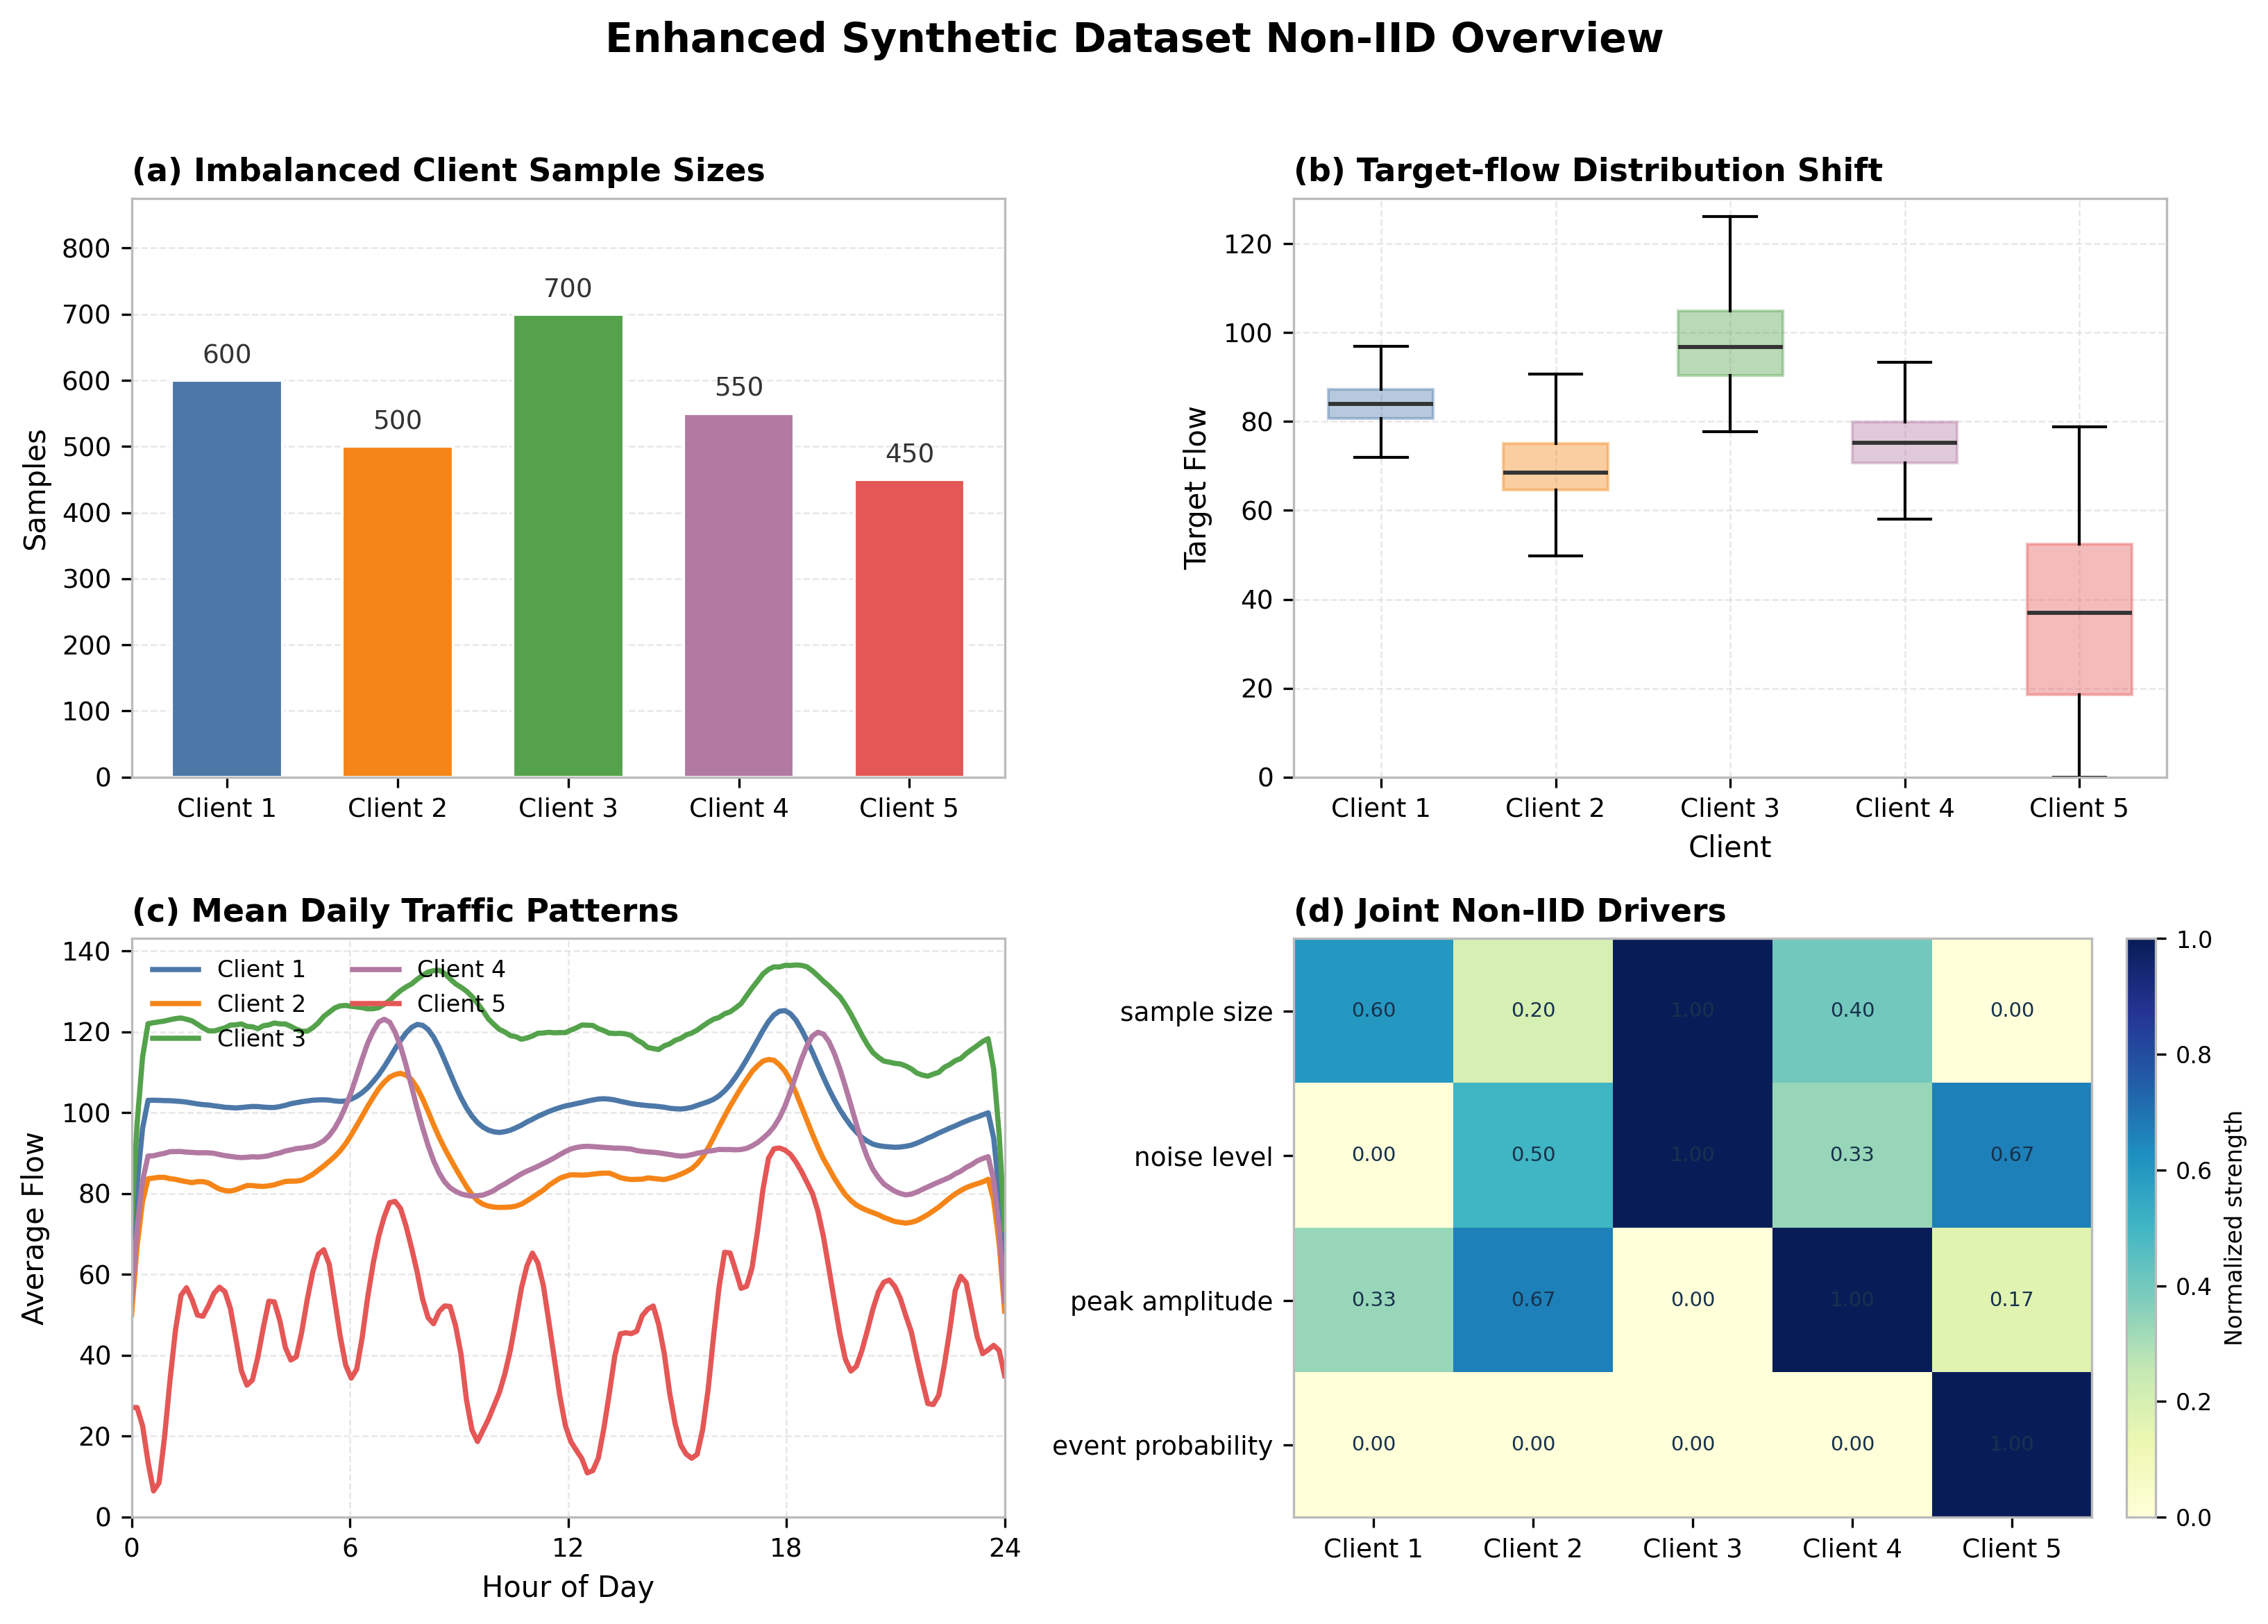
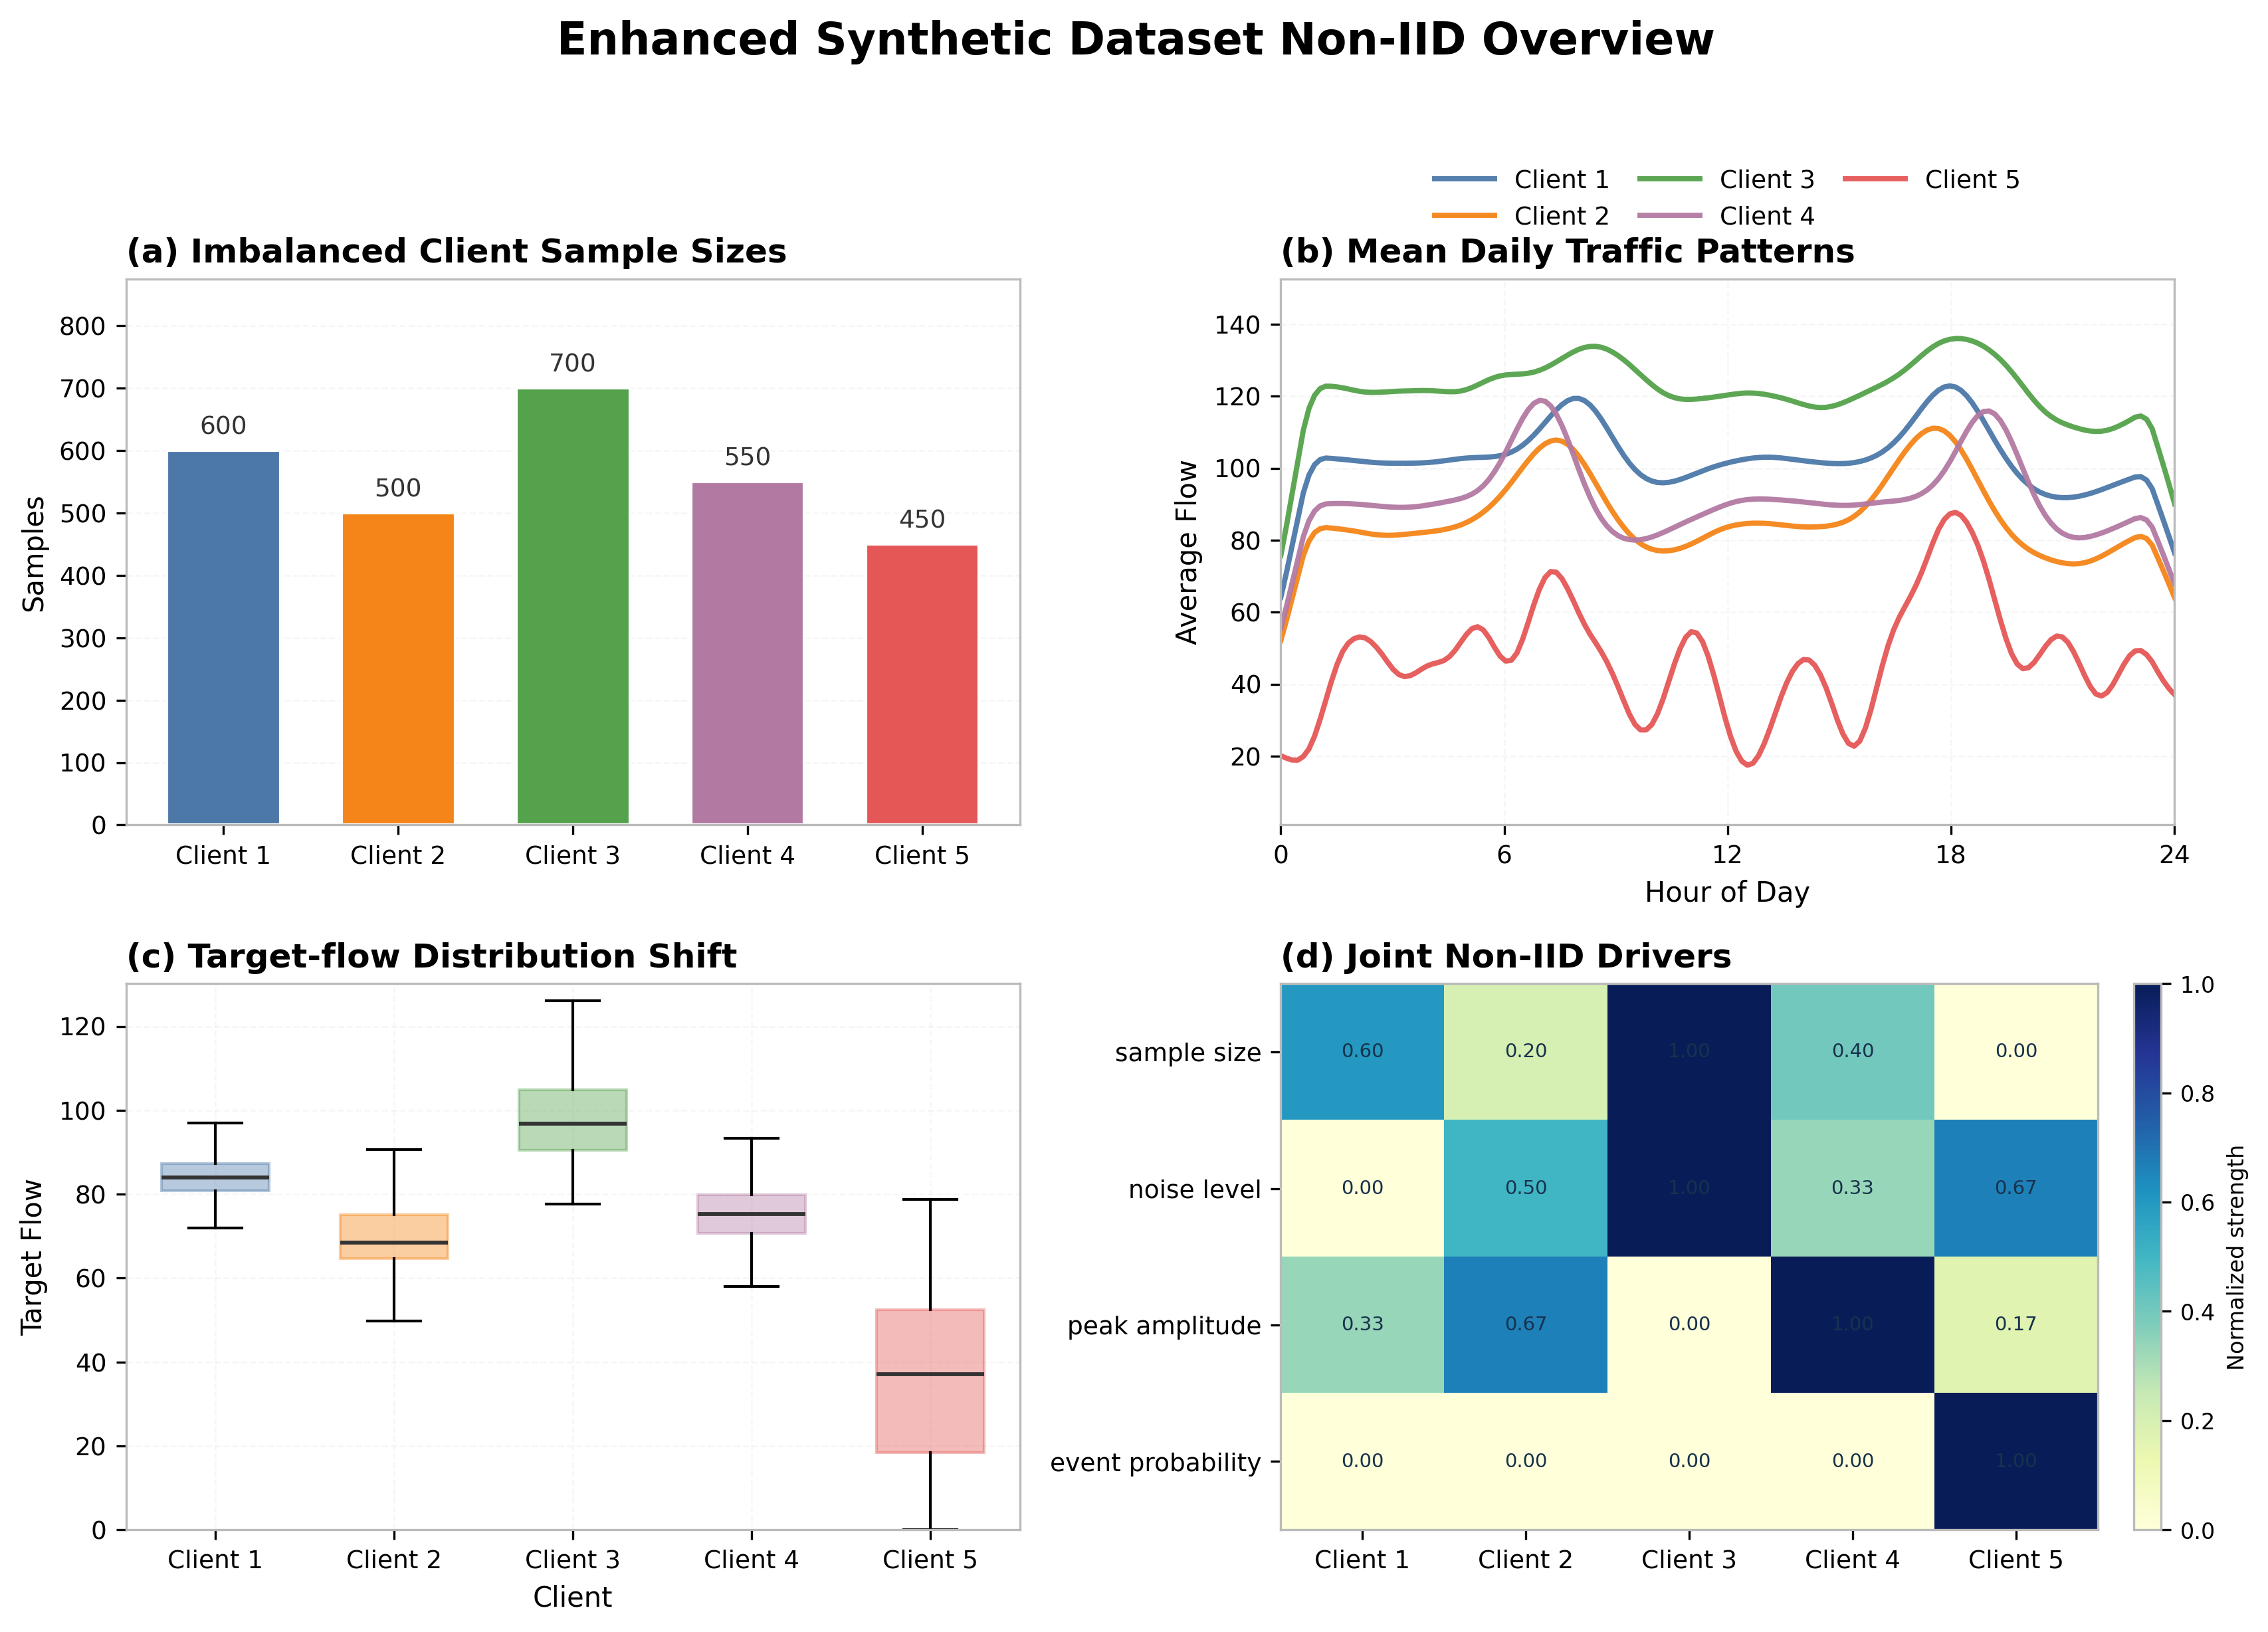
Align dataset overview panels and improve trajectory legends

diff --git a/simulation_experiments/simulation_dataset_overview_visualization.py b/simulation_experiments/simulation_dataset_overview_visualization.py
@@ -37,11 +37,12 @@ def _configure_style() -> None:
     plt.rcParams.update(
         {
             "font.size": 10,
-            "axes.titlesize": 11,
+            "axes.titlesize": 12,
             "axes.labelsize": 10,
-            "figure.titlesize": 14,
+            "figure.titlesize": 16,
             "xtick.labelsize": 9,
             "ytick.labelsize": 9,
+            "legend.fontsize": 9,
             "axes.edgecolor": "#BBBBBB",
             "axes.linewidth": 0.8,
             "grid.color": GRID_COLOR,
@@ -78,10 +79,34 @@ def _add_bar_labels(ax, bars, values: list[float]) -> None:
         )
 
 
+def _smooth_curve(values: np.ndarray, window: int = 3) -> np.ndarray:
+    if window <= 1:
+        return values.copy()
+    pad = window // 2
+    padded = np.pad(values, (pad, pad), mode="edge")
+    kernel = np.ones(window, dtype=float) / float(window)
+    return np.convolve(padded, kernel, mode="valid")
+
+
+def _configure_line_panel(ax, legend_items: int) -> None:
+    ax.grid(alpha=0.25)
+    ax.set_axisbelow(True)
+    ncol = 3 if legend_items <= 6 else 4
+    ax.legend(
+        loc="lower center",
+        bbox_to_anchor=(0.5, 1.05),
+        ncol=ncol,
+        frameon=False,
+        fontsize=9,
+        handlelength=2.4,
+        columnspacing=1.2,
+    )
+
+
 def _prepare_base_data() -> dict[str, object]:
     all_x, all_y, meta = cfb_core.generate_base_traffic_data(seed=cfb_core.BASE_SEED)
     _, raw_adj, graph_meta = gfb_core.generate_adjacency_matrix(seed=gfb_core.BASE_SEED)
-    mean_series = [client_x.mean(axis=(0, 1)) for client_x in all_x]
+    mean_series = [_smooth_curve(client_x.mean(axis=(0, 1)), window=3) for client_x in all_x]
     return {
         "meta": meta,
         "mean_series": mean_series,
@@ -108,11 +133,12 @@ def _prepare_enhanced_data() -> dict[str, object]:
         mean_series = data.mean(axis=1)
         hours = np.arange(len(mean_series), dtype=float) * 24.0 / len(mean_series)
         resampled = np.interp(common_hours, hours, mean_series)
-        kernel = np.array([1.0, 2.0, 3.0, 3.0, 3.0, 2.0, 1.0], dtype=float)
+        kernel = np.array([1.0, 2.0, 3.0, 4.0, 5.0, 5.0, 4.0, 3.0, 2.0, 1.0], dtype=float)
         kernel /= kernel.sum()
         resampled = np.convolve(resampled, kernel, mode="same")
+        resampled = _smooth_curve(resampled, window=7)
 
-        target_distributions.append(targets)
+        target_distributions.append(np.clip(targets, 0.0, None))
         resampled_series.append(resampled)
         sample_sizes.append(int(cfg["n_samples"]))
         noises.append(float(cfg["noise"]))
@@ -160,7 +186,7 @@ def generate_base_dataset_overview(output_dir: Path) -> None:
     base_data = _prepare_base_data()
     meta = base_data["meta"]
 
-    fig, axes = plt.subplots(2, 2, figsize=(11, 8))
+    fig, axes = plt.subplots(2, 2, figsize=(11.5, 8.4))
     fig.patch.set_facecolor("white")
     fig.suptitle("Base Synthetic Traffic Dataset", y=0.97, fontweight="bold")
 
@@ -170,19 +196,38 @@ def generate_base_dataset_overview(output_dir: Path) -> None:
     axes[0, 0].set_title("(a) Mild Client Sample-size Imbalance", loc="left", fontweight="bold")
     axes[0, 0].set_ylabel("Samples")
     axes[0, 0].set_ylim(0, max(sample_sizes) * 1.25)
-    axes[0, 0].grid(axis="y", alpha=0.7)
+    axes[0, 0].grid(axis="y", alpha=0.25)
     axes[0, 0].set_axisbelow(True)
     _add_bar_labels(axes[0, 0], bars, sample_sizes)
 
+    time_axis = np.arange(len(base_data["mean_series"][0]))
     for cid, series in enumerate(base_data["mean_series"]):
-        axes[0, 1].plot(np.arange(len(series)), series, label=f"Client {cid + 1}", lw=1.8, color=COLORS[cid])
+        axes[0, 1].plot(
+            time_axis,
+            series,
+            label=f"Client {cid + 1}",
+            lw=1.9,
+            alpha=0.95,
+            color=COLORS[cid],
+        )
     overall_mean = np.mean(np.vstack(base_data["mean_series"]), axis=0)
-    axes[0, 1].plot(np.arange(len(overall_mean)), overall_mean, color="#333333", lw=1.4, ls="--", label="Overall mean")
+    axes[0, 1].plot(
+        time_axis,
+        overall_mean,
+        color="#222222",
+        lw=1.8,
+        ls="--",
+        alpha=0.75,
+        label="Overall mean",
+    )
     axes[0, 1].set_title("(b) Mean Traffic Trajectories", loc="left", fontweight="bold")
     axes[0, 1].set_xlabel("Time Step")
     axes[0, 1].set_ylabel("Average Flow")
-    axes[0, 1].grid(alpha=0.7)
-    axes[0, 1].legend(ncol=2, fontsize=8, loc="upper left")
+    y_min = min(float(np.min(series)) for series in base_data["mean_series"])
+    y_max = max(float(np.max(series)) for series in base_data["mean_series"])
+    pad = max((y_max - y_min) * 0.16, 0.06)
+    axes[0, 1].set_ylim(max(0.0, y_min - pad), y_max + pad)
+    _configure_line_panel(axes[0, 1], legend_items=len(base_data["mean_series"]) + 1)
 
     target_data = [np.asarray(targets, dtype=float) for targets in base_data["targets"]]
     box = axes[1, 0].boxplot(target_data, patch_artist=True, widths=0.6, showfliers=False)
@@ -198,7 +243,7 @@ def generate_base_dataset_overview(output_dir: Path) -> None:
     axes[1, 0].set_ylabel("Target Flow")
     axes[1, 0].set_xticks(range(1, len(target_data) + 1))
     axes[1, 0].set_xticklabels([f"Client {idx}" for idx in range(1, len(target_data) + 1)])
-    axes[1, 0].grid(alpha=0.7)
+    axes[1, 0].grid(alpha=0.25)
 
     _draw_base_graph(axes[1, 1], base_data["raw_adj"])
     axes[1, 1].set_title("(d) Base 8-node Graph Structure", loc="left", fontweight="bold")
@@ -222,7 +267,7 @@ def generate_base_dataset_overview(output_dir: Path) -> None:
 def generate_enhanced_noniid_overview(output_dir: Path) -> None:
     enhanced_data = _prepare_enhanced_data()
 
-    fig, axes = plt.subplots(2, 2, figsize=(11, 8))
+    fig, axes = plt.subplots(2, 2, figsize=(11.5, 8.4))
     fig.patch.set_facecolor("white")
     fig.suptitle("Enhanced Synthetic Dataset Non-IID Overview", y=0.97, fontweight="bold")
 
@@ -231,11 +276,31 @@ def generate_enhanced_noniid_overview(output_dir: Path) -> None:
     axes[0, 0].set_title("(a) Imbalanced Client Sample Sizes", loc="left", fontweight="bold")
     axes[0, 0].set_ylabel("Samples")
     axes[0, 0].set_ylim(0, max(enhanced_data["sample_sizes"]) * 1.25)
-    axes[0, 0].grid(axis="y", alpha=0.7)
+    axes[0, 0].grid(axis="y", alpha=0.25)
     axes[0, 0].set_axisbelow(True)
     _add_bar_labels(axes[0, 0], bars, enhanced_data["sample_sizes"])
 
-    box = axes[0, 1].boxplot(
+    for cid, series in enumerate(enhanced_data["resampled_series"]):
+        axes[0, 1].plot(
+            enhanced_data["hours"],
+            series,
+            lw=1.9,
+            alpha=0.95,
+            color=COLORS[cid],
+            label=f"Client {cid + 1}",
+        )
+    axes[0, 1].set_title("(b) Mean Daily Traffic Patterns", loc="left", fontweight="bold")
+    axes[0, 1].set_xlabel("Hour of Day")
+    axes[0, 1].set_ylabel("Average Flow")
+    axes[0, 1].set_xlim(0, 24)
+    axes[0, 1].set_xticks([0, 6, 12, 18, 24])
+    enhanced_y_min = min(float(np.min(series)) for series in enhanced_data["resampled_series"])
+    enhanced_y_max = max(float(np.max(series)) for series in enhanced_data["resampled_series"])
+    enhanced_pad = max((enhanced_y_max - enhanced_y_min) * 0.14, 0.25)
+    axes[0, 1].set_ylim(max(0.0, enhanced_y_min - enhanced_pad), enhanced_y_max + enhanced_pad)
+    _configure_line_panel(axes[0, 1], legend_items=len(enhanced_data["resampled_series"]))
+
+    box = axes[1, 0].boxplot(
         [np.asarray(targets, dtype=float) for targets in enhanced_data["target_distributions"]],
         patch_artist=True,
         widths=0.6,
@@ -248,26 +313,16 @@ def generate_enhanced_noniid_overview(output_dir: Path) -> None:
     for median in box["medians"]:
         median.set_color("#333333")
         median.set_linewidth(1.4)
-    axes[0, 1].set_title("(b) Target-flow Distribution Shift", loc="left", fontweight="bold")
-    axes[0, 1].set_xlabel("Client")
-    axes[0, 1].set_ylabel("Target Flow")
-    axes[0, 1].set_xticks(range(1, 6))
-    axes[0, 1].set_xticklabels(clients)
-    axes[0, 1].grid(alpha=0.7)
+    axes[1, 0].set_title("(c) Target-flow Distribution Shift", loc="left", fontweight="bold")
+    axes[1, 0].set_xlabel("Client")
+    axes[1, 0].set_ylabel("Target Flow")
+    axes[1, 0].set_xticks(range(1, 6))
+    axes[1, 0].set_xticklabels(clients)
+    axes[1, 0].grid(alpha=0.25)
     all_targets = np.concatenate([np.asarray(targets, dtype=float) for targets in enhanced_data["target_distributions"]])
     y_low = np.percentile(all_targets, 1.0)
     y_high = np.percentile(all_targets, 99.0)
-    axes[0, 1].set_ylim(max(0.0, y_low - 0.05 * (y_high - y_low)), y_high + 0.08 * (y_high - y_low))
-
-    for cid, series in enumerate(enhanced_data["resampled_series"]):
-        axes[1, 0].plot(enhanced_data["hours"], series, lw=1.8, color=COLORS[cid], label=f"Client {cid + 1}")
-    axes[1, 0].set_title("(c) Mean Daily Traffic Patterns", loc="left", fontweight="bold")
-    axes[1, 0].set_xlabel("Hour of Day")
-    axes[1, 0].set_ylabel("Average Flow")
-    axes[1, 0].set_xlim(0, 24)
-    axes[1, 0].set_xticks([0, 6, 12, 18, 24])
-    axes[1, 0].grid(alpha=0.7)
-    axes[1, 0].legend(ncol=2, fontsize=8, loc="upper left")
+    axes[1, 0].set_ylim(max(0.0, y_low - 0.05 * (y_high - y_low)), y_high + 0.08 * (y_high - y_low))
 
     driver_matrix = np.vstack(
         [

diff --git a/paper_revision/manuscript_sections_zh/current/simulation_experiment_formal_module_zh_v4.md b/paper_revision/manuscript_sections_zh/current/simulation_experiment_formal_module_zh_v4.md
@@ -18,7 +18,7 @@
 
 在增强异质性场景中，本文进一步从 Non-IID 程度、客户端数量和输入特征组合三个角度分析 FedAvg 的预测表现。该设计使仿真实验不仅能够验证基础联邦训练效果，还能够考察客户端异构性、参与规模和特征配置变化对标准 FedAvg 的影响。核心主结果、收敛结果和鲁棒性结果统一采用五个随机种子 `42`、`2024`、`3407`、`1234` 和 `5678` 进行重复验证；固定图与动态图比较图仍主要用于呈现趋势性结果，因此相关结论应保持审慎。
 
-为更直观地说明仿真数据的构造逻辑，图 1 给出了基础仿真数据集构造示意图。基础仿真数据集用于在轻度样本量不平衡、空间结构一致和输入输出设置一致的条件下，验证 FedAvg 的基本协同建模能力；与此同时，各客户端平均交通流轨迹和目标流量分布保留可观察但受控的轻中度差异，以构成受控弱异质性的联邦场景。
+为更直观地说明仿真数据的构造逻辑，图 1 给出了基础仿真数据集构造示意图。基础仿真数据集用于在轻度样本量不平衡、空间结构一致和输入输出设置一致的条件下，验证 FedAvg 的基本协同建模能力；与此同时，各客户端平均交通流轨迹和目标流量分布保留可观察但受控的轻中度差异，以构成受控弱异质性的联邦场景。两张数据集说明图采用一致的子图顺序，分别从客户端样本量、平均交通流轨迹、目标流量分布和结构/异质性驱动因素四个角度展示基础场景与增强场景的差异。
 
 ![图 1 基础仿真数据集构造示意图](../../../results/simulation_experiments/dataset_overview/base_simulation_dataset_overview.png)
 

diff --git a/paper_revision/manuscript_sections_zh/simulation_experiment_formal_module_zh_v4.md b/paper_revision/manuscript_sections_zh/simulation_experiment_formal_module_zh_v4.md
@@ -18,7 +18,7 @@
 
 在增强异质性场景中，本文进一步从 Non-IID 程度、客户端数量和输入特征组合三个角度分析 FedAvg 的预测表现。该设计使仿真实验不仅能够验证基础联邦训练效果，还能够考察客户端异构性、参与规模和特征配置变化对标准 FedAvg 的影响。核心主结果、收敛结果和鲁棒性结果统一采用五个随机种子 `42`、`2024`、`3407`、`1234` 和 `5678` 进行重复验证；固定图与动态图比较图仍主要用于呈现趋势性结果，因此相关结论应保持审慎。
 
-为更直观地说明仿真数据的构造逻辑，图 1 给出了基础仿真数据集构造示意图。基础仿真数据集用于在轻度样本量不平衡、空间结构一致和输入输出设置一致的条件下，验证 FedAvg 的基本协同建模能力；与此同时，各客户端平均交通流轨迹和目标流量分布保留可观察但受控的轻中度差异，以构成受控弱异质性的联邦场景。
+为更直观地说明仿真数据的构造逻辑，图 1 给出了基础仿真数据集构造示意图。基础仿真数据集用于在轻度样本量不平衡、空间结构一致和输入输出设置一致的条件下，验证 FedAvg 的基本协同建模能力；与此同时，各客户端平均交通流轨迹和目标流量分布保留可观察但受控的轻中度差异，以构成受控弱异质性的联邦场景。两张数据集说明图采用一致的子图顺序，分别从客户端样本量、平均交通流轨迹、目标流量分布和结构/异质性驱动因素四个角度展示基础场景与增强场景的差异。
 
 ![图 1 基础仿真数据集构造示意图](../../../results/simulation_experiments/dataset_overview/base_simulation_dataset_overview.png)
 